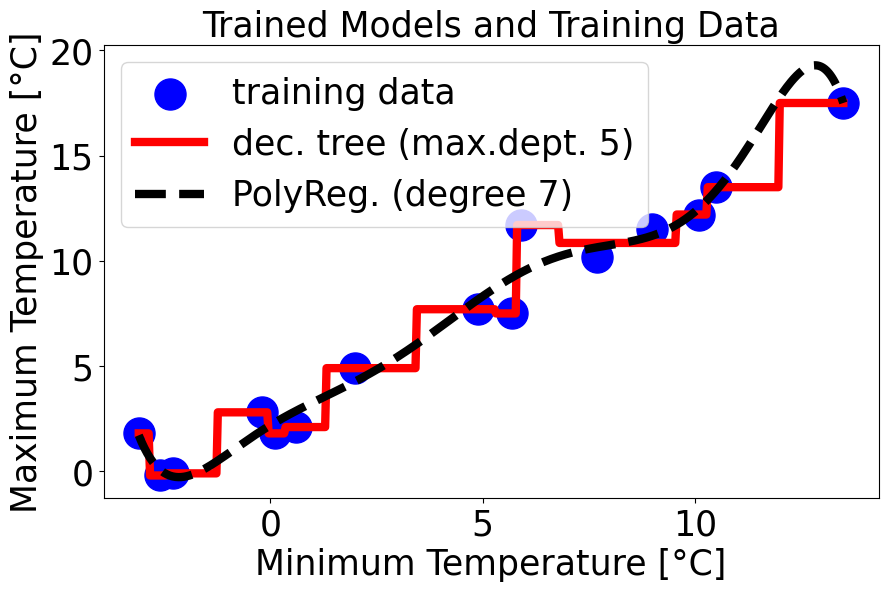
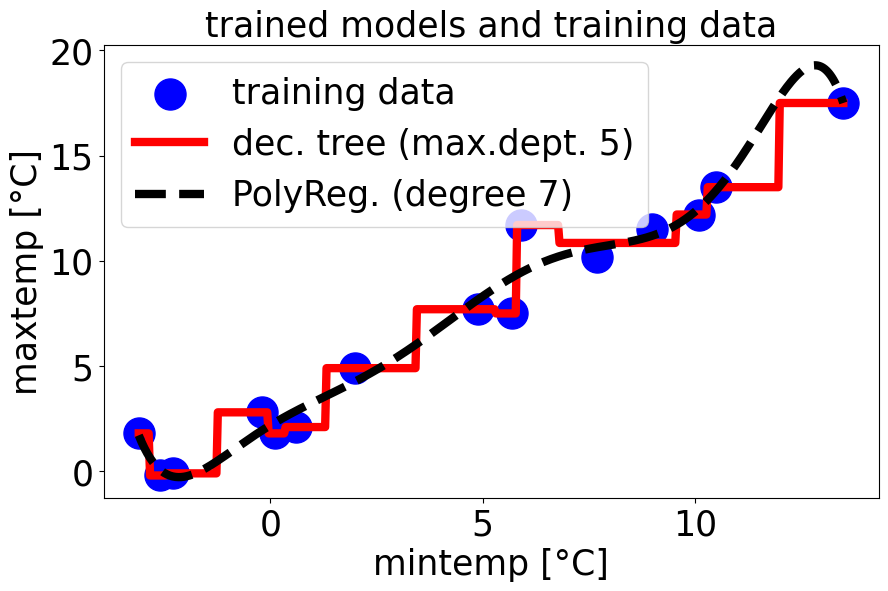
update

Changed region(s): [[0.0, 0.0609, 0.0608, 0.8832], [0.2736, 0.9137, 0.8209, 1.0], [0.2128, 0.0, 0.8818, 0.0914]]

diff --git a/assets/PostEERM/ExplainableML.py b/assets/PostEERM/ExplainableML.py
@@ -69,9 +69,9 @@ plt.plot(min_temp_range, predicted_max_temp_dt, color='red', label=f"dec. tree (
 plt.plot(min_temp_range, predicted_max_temp_poly, color='black',linestyle='--',  label=f"PolyReg. (degree {poly_degree})", linewidth=6)
 
 # Add axis labels, title, and legend
-plt.xlabel("Minimum Temperature [°C]")
-plt.ylabel("Maximum Temperature [°C]")
-plt.title("Trained Models and Training Data")
+plt.xlabel("mintemp [°C]")
+plt.ylabel("maxtemp [°C]")
+plt.title("trained models and training data")
 plt.legend()
 # Save the plot before showing it
 plt.savefig("dtpolyreg.png", dpi=100, bbox_inches='tight')
@@ -129,7 +129,7 @@ plt.figure(figsize=(10, 6))
 
 # Plot the original data points
 plt.scatter(
-    X, y, color='blue', label="original data", marker='o',s=500
+    X, y, color='blue', label="orig. data", marker='o',s=500
 )
 
 # Plot the augmented data points with +1 shifts
@@ -151,11 +151,11 @@ plt.plot(min_temp_range, predicted_max_temp_dt, color='red', label="dec. tree", 
 plt.plot(min_temp_range, predicted_max_temp_poly, linestyle = "--",color='black', label=f"PolyReg", linewidth=6)
 
 # Add axis labels, title, and legend
-plt.xlabel("Minimum Temperature [°C]")
-plt.ylabel("Maximum Temperature [°C]")
-plt.title("Explainable DT and PolyReg")
+plt.xlabel("mintemp [°C]")
+plt.ylabel("maxtemp [°C]")
+plt.title("explainable DT and PolyReg")
 plt.legend(loc='upper left')
-plt.savefig("dtpolyregexplainable.png", dpi=100, bbox_inches='tight')
+plt.savefig("dtpolyregexplainable.png", dpi=100)
 plt.show()
 ""
 
